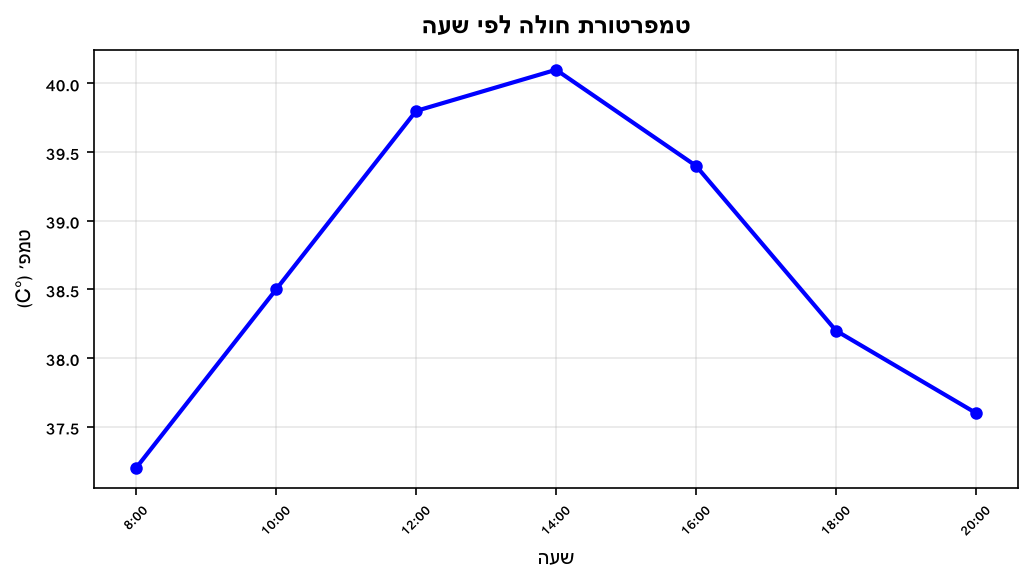
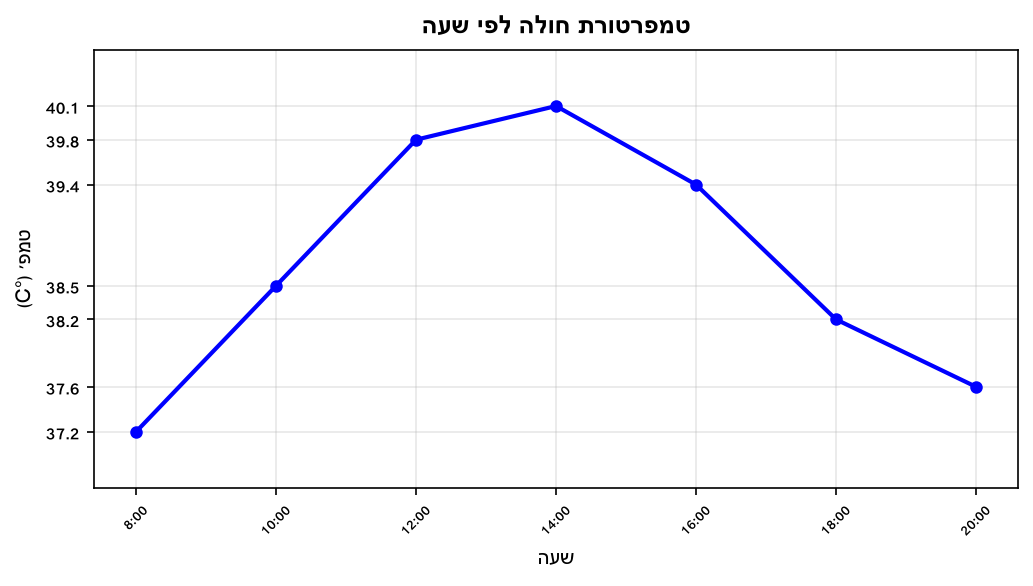
fix Exercise quality check prompt & 3.1

diff --git a/scripts/פרומפט_בדיקת_איכות_קובץ_תרגילים.md b/scripts/פרומפט_בדיקת_איכות_קובץ_תרגילים.md
@@ -45,6 +45,7 @@
 
 - כל ערך מפתח שנשאל עליו בשאלה (מינימום, מקסימום, ערך התחלתי, נקודת חיתוך וכד') נחת בדיוק על קו רשת — כך שניתן לקרוא את הערך המדויק ישירות מהגרף ללא ניחוש.
 - אם ערך מפתח נמצא בין קווי רשת → זו שגיאה. יש לציין: "ערך X בתרגיל Y אינו קריא מהגרף".
+- **בדיקה חובה:** פתח את קובץ ה-PNG בפועל (לא רק את הנתונים ב-Python) וודא שכל נקודת נתונים נחתת על חיתוך קווי רשת. matplotlib בברירת מחדל בוחר קווי רשת שלא תואמים לנתונים — יש לתקן ב-`make_graph` (יישור `xticks`/`yticks` לערכי הנתונים) או לעגל את הנתונים.
 - האם ציר ה-x, ציר ה-y וכותרת הגרף תואמים את תיאור השאלה?
 
 ### עבור צורות הנדסיות (גיאומטריה, הנדסה אנליטית, פרבולות, טריגונומטריה)
@@ -75,5 +76,5 @@
 בסיום — בצע את כל התיקונים הנדרשים בתחום התוכן בלבד:
 
 - קובץ Markdown: עדכן ניסוח שאלות שגוי וערכי תשובות שגויים. אל תשנה מבנה שורות, ריווח, או סידור LaTeX/עברית.
-- אם גרף דורש שינוי: עדכן את הנתונים ב-`generate_graphs.py` עבור התת-נושא הרלוונטי, הרץ מחדש רק את אותו תת-נושא, ווודא שהגרף החדש אכן תקין לפני המשך
+- אם גרף דורש שינוי: עדכן את הנתונים ב-`generate_graphs.py` עבור התת-נושא הרלוונטי, וודא ש-`make_graph` מיישר קווי רשת לערכי הנתונים (לא להסתמך על autoscale של matplotlib). הרץ מחדש רק את אותו תת-נושא, **פתח את ה-PNG** ווודא שכל נקודה ניתנת לקריאה מדויקת מהגרף לפני המשך
 - אם צורה הנדסית דורשת שינוי: עדכן את קוד יצירת הצורה הרלוונטי והרץ מחדש

diff --git a/3 - קריאת והבנת מידע מגרפים מסיפורי מעשה/1_היכרות_עם_צירי_הגרף.md b/3 - קריאת והבנת מידע מגרפים מסיפורי מעשה/1_היכרות_עם_צירי_הגרף.md
@@ -300,7 +300,7 @@
 2.
 א. ציר x: גיל בשנים.
 ב. ציר y: גובה בס"מ.
-ג. בלידתה (גיל 0) גובה הילדה היה 48 ס"מ.
+ג. בלידתה (גיל 0) גובה הילדה היה 50 ס"מ.
 
 3.
 א. ציר x: זמן (דקות) מאז פתיחת הברז.
